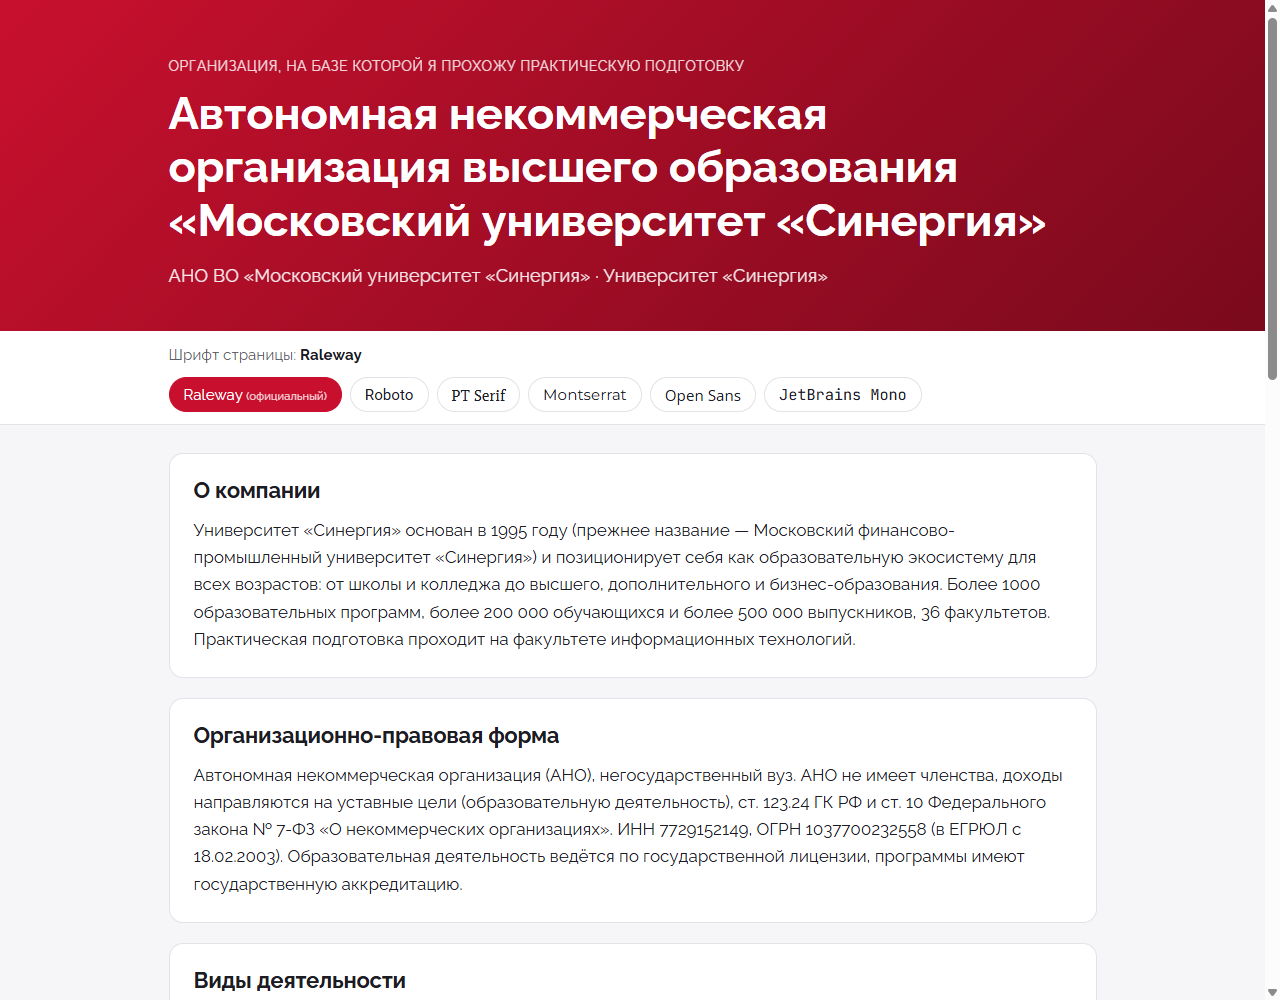
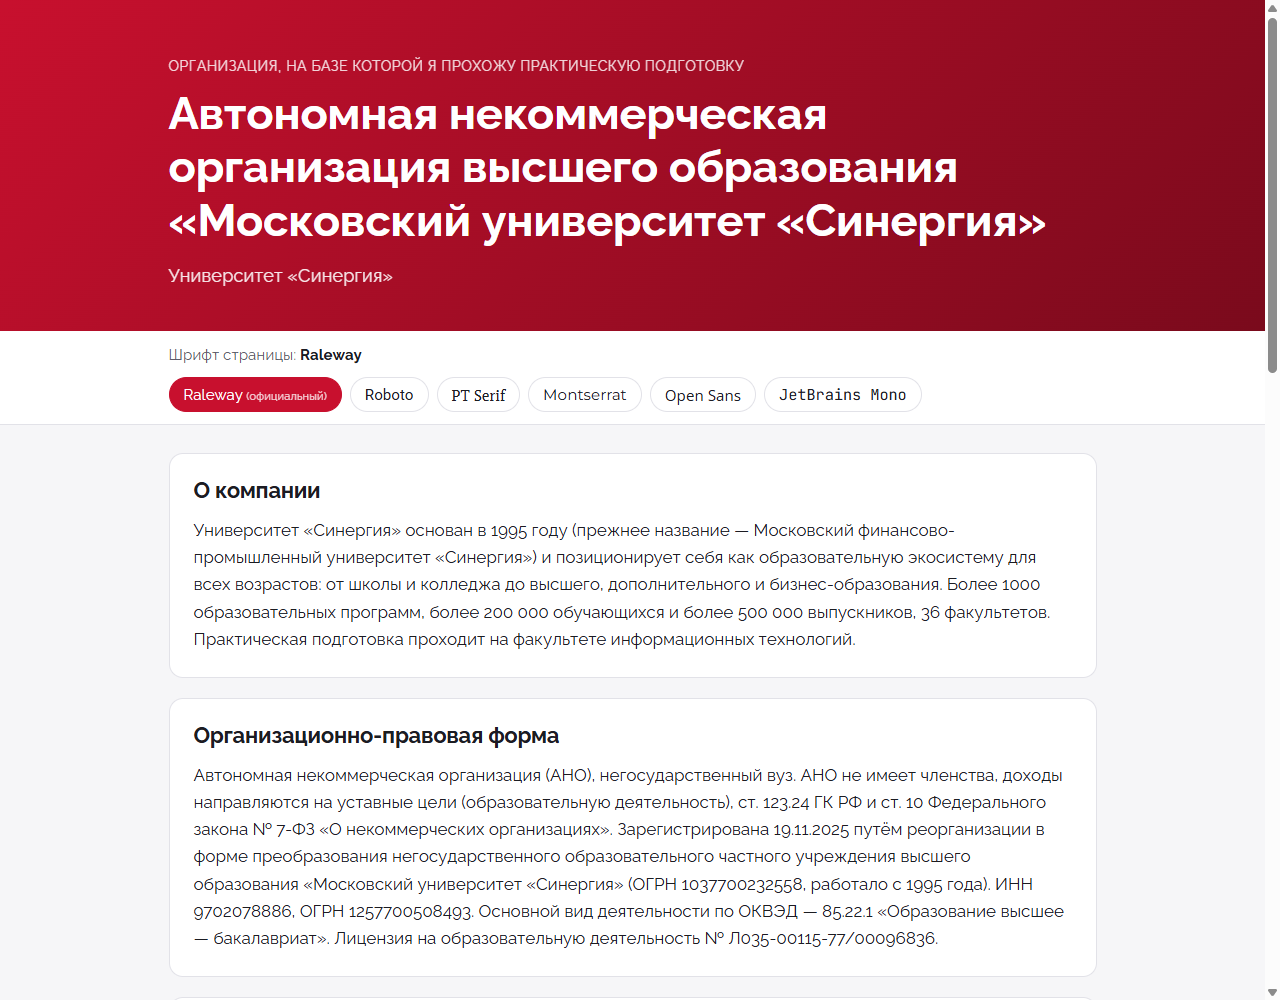
Verify organization data against EGRUL: current INN/OGRN, short name, OKVED

Changed region(s): [[0.1562, 0.806, 0.8438, 1.0], [0.125, 0.248, 0.625, 0.279]]

diff --git a/README.md b/README.md
@@ -86,4 +86,4 @@ ctest --test-dir build --output-on-failure
 ## Источники данных
 
 Официальный сайт [synergyuniversity.ru](https://synergyuniversity.ru), раздел [«Сведения об образовательной организации»](https://synergyuniversity.ru/sveden), отчётность НКО на [nco.minjust.gov.ru](https://nco.minjust.gov.ru).
-Полное и сокращённое название, организационно-правовую форму и юридический адрес нужно сверить с выпиской ЕГРЮЛ ([egrul.nalog.ru](https://egrul.nalog.ru), ИНН 7729152149).
+Название, организационно-правовая форма, юридический адрес, ИНН/ОГРН и ОКВЭД сверены с выпиской ЕГРЮЛ ([egrul.nalog.ru](https://egrul.nalog.ru)) от 12.10.2026: АНО ВО «Московский университет «Синергия», ИНН 9702078886, ОГРН 1257700508493. Организация создана 19.11.2025 преобразованием НОЧУ ВО «Московский университет «Синергия» (ИНН 7729152149, ОГРН 1037700232558).
